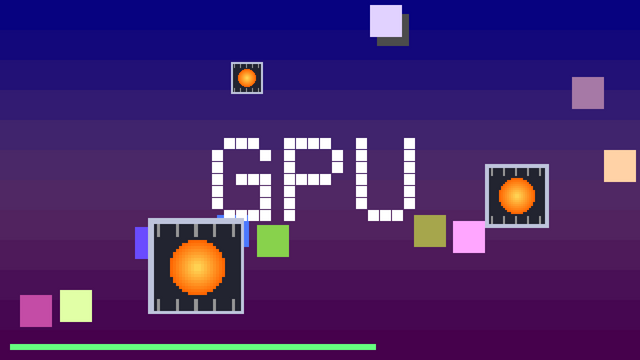
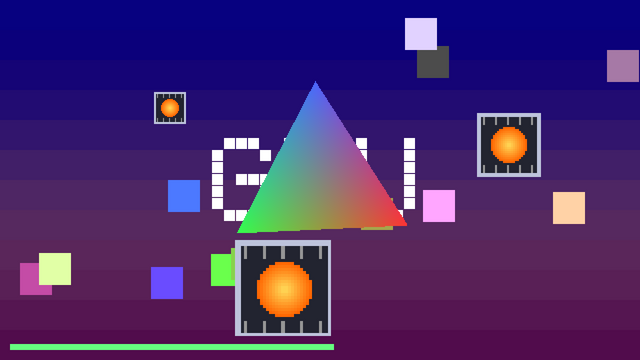
eden-ps4: the GPU test draws a triangle with hand-assembled Maxwell shaders
A vertex program (ALD, AST: position and a colour) and a fragment program
(IPA into R0..R3), with their shader program headers, in Maxwell machine
code written by hand, as there's no shader compiler here. Through Eden's
shader recompiler and Vulkan renderer on lavapipe it draws the RGB
triangle; the null renderer doesn't draw shaders yet.

Claude-Session: https://claude.ai/code/session_01VdsH7DVAudgDzMpBqJZHAz

diff --git a/eden-ps4/game/gputest.c b/eden-ps4/game/gputest.c
@@ -6,8 +6,9 @@
 //
 // It draws a backdrop, bouncing squares and the word GPU with the 3D engine's clears, and sprites
 // with the 2D engine: a 32x32 image drawn by the CPU, copied once by the DMA engine, then blitted
-// and scaled onto the frame. It waits for each frame's GPU work through a fence the command stream
-// signals, and quits on +.
+// and scaled onto the frame. And a triangle drawn with shaders: a vertex and a fragment program in
+// Maxwell machine code, assembled by hand below (there's no shader compiler here). It waits for each
+// frame's GPU work through a fence the command stream signals, and quits on +.
 
 #include <math.h>
 #include <stdbool.h>
@@ -43,6 +44,80 @@ size_t __nx_heap_size = 64 * 1024 * 1024;
 #define MDMA_LAUNCH 0x0C0
 #define MDMA_OFFSET_IN 0x100 // in (2), out (2), pitch in, pitch out, line length, line count
 #define SPRITE 32
+#define M_VIEWPORT_TRANSFORM 0x280 // scale x, y, z, translate x, y, z, swizzle, snap
+#define M_VIEWPORT 0x300           // x | width << 16, y | height << 16, near, far
+#define M_VERTEX_FIRST 0x35D       // first, count
+#define M_VERTEX_ATTRIB 0x458      // one word per attribute
+#define M_VIEWPORT_TRANSFORM_ENABLE 0x64B
+#define M_PROGRAM_REGION 0x582     // address (2)
+#define M_DRAW_END 0x585
+#define M_DRAW_BEGIN 0x586
+#define M_VERTEX_STREAM 0x700      // config (stride | enable << 12), address (2), frequency
+#define M_VERTEX_STREAM_LIMIT 0x7C0 // last address (2)
+#define M_PIPELINE 0x800           // 0x10 apart: config (enable | type << 4), offset, -, registers
+#define TOPOLOGY_TRIANGLES 4
+#define ATTR_RGBA32F (0x01u << 21 | 7u << 27) // R32G32B32A32, float, buffer 0 (offset << 7)
+
+// Maxwell instructions (64-bit), with the guard predicate PT (always) in bits 16..19
+#define PT (7ull << 16)
+#define RZ 0xFFull
+static u64 ald128(u32 dest, u32 attribute) { // ALD.128 Rdest, a[attribute]
+    return 0x1DFBull << 51 | 3ull << 47 | RZ << 39 | (u64)attribute << 20 | PT | RZ << 8 | dest;
+}
+static u64 ast128(u32 attribute, u32 src) { // AST.128 a[attribute], Rsrc
+    return 0x1DFEull << 51 | 3ull << 47 | RZ << 39 | (u64)attribute << 20 | PT | RZ << 8 | src;
+}
+static u64 mov32i(u32 dest, float value) { // MOV32I Rdest, value
+    u32 bits;
+    memcpy(&bits, &value, 4);
+    return 0x010ull << 52 | (u64)bits << 20 | PT | 0xFull << 12 | dest;
+}
+static u64 ipa(u32 dest, u32 attribute) { // IPA.PASS Rdest, a[attribute] (an interpolated input)
+    return 0xE0ull << 56 | (u64)(attribute / 4) << 30 | RZ << 20 | PT | RZ << 8 | dest;
+}
+static u64 exit_(void) { // EXIT (condition: true)
+    return 0xE30ull << 52 | PT | 0xF;
+}
+static u64 nop(void) {
+    return 0xA16ull << 51 | PT;
+}
+#define SCHED 0x001F8000FC0007E0ull // a scheduling word (before every three instructions)
+
+// The shader programs, in a GPU buffer: each a 0x50-byte header (SPH) and its code, placed so
+// that the code starts on 32 bytes (the scheduling words sit at multiples of 32).
+#define VS_OFFSET 0x10
+#define FS_OFFSET 0x110
+static void write_programs(u8* heap) {
+    u32* vs_sph = (u32*)(heap + VS_OFFSET);
+    vs_sph[0] = 1 /* vertex, geometry etc. */ | 3 << 5 /* version */ | 1 << 10 /* vertex */;
+    ((u8*)vs_sph)[24] = 0xFF; // reads attributes 0 and 1 (xyzw)
+    ((u8*)vs_sph)[53] = 0xF0; // writes position (xyzw)
+    ((u8*)vs_sph)[54] = 0x0F; // and varying 0 (xyzw)
+    u64* vs = (u64*)(heap + VS_OFFSET + 0x50);
+    vs[0] = SCHED;
+    vs[1] = ald128(0, 0x80); // R0..R3 = vertex attribute 0 (position)
+    vs[2] = ald128(4, 0x90); // R4..R7 = vertex attribute 1 (colour)
+    vs[3] = ast128(0x70, 0); // position = R0..R3
+    vs[4] = SCHED;
+    vs[5] = ast128(0x80, 4); // varying 0 = R4..R7
+    vs[6] = exit_();
+    vs[7] = nop();
+
+    u32* fs_sph = (u32*)(heap + FS_OFFSET);
+    fs_sph[0] = 2 /* pixel */ | 3 << 5 | 5 << 10 /* pixel */;
+    ((u8*)fs_sph)[24] = 0xFF; // varying 0, xyzw interpolated linearly in screen space
+    fs_sph[18] = 0xF;         // render target 0 gets R0..R3
+    u64* fs = (u64*)(heap + FS_OFFSET + 0x50);
+    fs[0] = SCHED;
+    fs[1] = ipa(0, 0x80); // R0..R3 = varying 0
+    fs[2] = ipa(1, 0x84);
+    fs[3] = ipa(2, 0x88);
+    fs[4] = SCHED;
+    fs[5] = ipa(3, 0x8C);
+    fs[6] = exit_();
+    fs[7] = nop();
+    (void)mov32i;
+}
 #define M_FENCE_VALUE 0x1C // GPFIFO (puller) methods
 #define M_FENCE_ACTION 0x1D
 #define M_RENDER_TARGET 0x200 // 8 words each, 0x10 apart: address (2), width, height, format,
@@ -223,6 +298,19 @@ int main(int argc, char* argv[]) {
     draw_sprite(sprite_mem);
     const iova_t sprite_copy = sprite_iova + 0x8000;
 
+    // The shader programs and, for each command buffer, the triangle's vertices.
+    u8* heap = aligned_alloc(0x1000, 0x10000);
+    NvMap heap_map;
+    iova_t heap_iova = 0;
+    if (!heap || R_FAILED(rc = nvMapCreate(&heap_map, heap, 0x10000, 0x1000, NvKind_Pitch, true)) ||
+        R_FAILED(rc = nvAddressSpaceMap(&as, nvMapGetHandle(&heap_map), true, NvKind_Pitch, &heap_iova))) {
+        fprintf(stderr, "gputest: shader buffer: %#x\n", rc);
+        return 1;
+    }
+    memset(heap, 0, 0x10000);
+    write_programs(heap);
+#define VERTICES_OFFSET(i) (0x1000 + (i) * 0x100)
+
     fprintf(stderr, "gputest: GPU channel open, syncpoint %u, framebuffers at GPU address %#lx\n",
             nvGpuChannelGetSyncpointId(&channel), fb_iova);
 
@@ -281,6 +369,21 @@ int main(int argc, char* argv[]) {
             method1(M_RT_CONTROL, 1 | (076543210 << 4)); // one render target, mapped to itself
             method1(M_COLOR_MASK, 0x1111);
             method1(M_CLEAR_FLAGS, CLEAR_FLAGS_SCISSOR);
+            // the shaders, and the triangle's fixed state: one float4 attribute, the viewport
+            const u32 region[2] = {(u32)(heap_iova >> 32), (u32)heap_iova};
+            method(M_PROGRAM_REGION, 2, region);
+            const u32 vertex_b[4] = {1 | 1 << 4, VS_OFFSET, 0, 8};
+            method(M_PIPELINE + 1 * 0x10, 4, vertex_b);
+            const u32 pixel[4] = {1 | 5 << 4, FS_OFFSET, 0, 8};
+            method(M_PIPELINE + 5 * 0x10, 4, pixel);
+            const u32 attribs[2] = {ATTR_RGBA32F, ATTR_RGBA32F | 16 << 7};
+            method(M_VERTEX_ATTRIB, 2, attribs);
+            const u32 transform[8] = {f32bits(W / 2.0f), f32bits(H / 2.0f), f32bits(0.5f), f32bits(W / 2.0f),
+                                      f32bits(H / 2.0f), f32bits(0.5f), 0x6420 /* identity */, 0};
+            method(M_VIEWPORT_TRANSFORM, 8, transform);
+            const u32 viewport[4] = {(u32)W << 16, (u32)H << 16, f32bits(0.0f), f32bits(1.0f)};
+            method(M_VIEWPORT, 4, viewport);
+            method1(M_VIEWPORT_TRANSFORM_ENABLE, 1);
             const u32 screen[2] = {(u32)W << 16, (u32)H << 16};
             method(M_SCREEN_SCISSOR, 2, screen);
             first = false;
@@ -310,6 +413,32 @@ int main(int argc, char* argv[]) {
             const int scale = i + 1;
             const int cx = W / 2 + (int)(200 * cosf(angle)), cy = H / 2 + (int)(110 * sinf(angle));
             sprite(sprite_copy, target, cx - SPRITE * scale / 2, cy - SPRITE * scale / 2, scale);
+        }
+        // the triangle, drawn with the shaders, turning
+        {
+            const int index = (int)(g_cmd - cmds);
+            float* v = (float*)(heap + VERTICES_OFFSET(index));
+            static const float colours[3][4] = {{1, 0.2f, 0.2f, 1}, {0.2f, 1, 0.3f, 1}, {0.3f, 0.4f, 1, 1}};
+            for (int k = 0; k < 3; k++) {
+                const float a = (float)frame * 0.02f + k * 2.0944f;
+                v[k * 8 + 0] = 0.55f * cosf(a) * H / W;
+                v[k * 8 + 1] = 0.55f * sinf(a);
+                v[k * 8 + 2] = 0.5f;
+                v[k * 8 + 3] = 1.0f;
+                memcpy(&v[k * 8 + 4], colours[k], sizeof(colours[k]));
+            }
+            const iova_t vertices = heap_iova + VERTICES_OFFSET(index);
+            const u32 scissor[3] = {1, (u32)W << 16, (u32)H << 16};
+            method(M_SCISSOR, 3, scissor);
+            const u32 stream[4] = {32 | 1 << 12, (u32)(vertices >> 32), (u32)vertices, 0};
+            method(M_VERTEX_STREAM, 4, stream);
+            const iova_t last = vertices + 3 * 32 - 1;
+            const u32 limit[2] = {(u32)(last >> 32), (u32)last};
+            method(M_VERTEX_STREAM_LIMIT, 2, limit);
+            const u32 range[2] = {0, 3};
+            method(M_VERTEX_FIRST, 2, range);
+            method1(M_DRAW_BEGIN, TOPOLOGY_TRIANGLES);
+            method1(M_DRAW_END, 0);
         }
         // a bar showing the frame rate: 6 pixels per frame a second
         rect(10, H - 16, fps * 6, 6, 0.4f, 1.0f, 0.5f);
